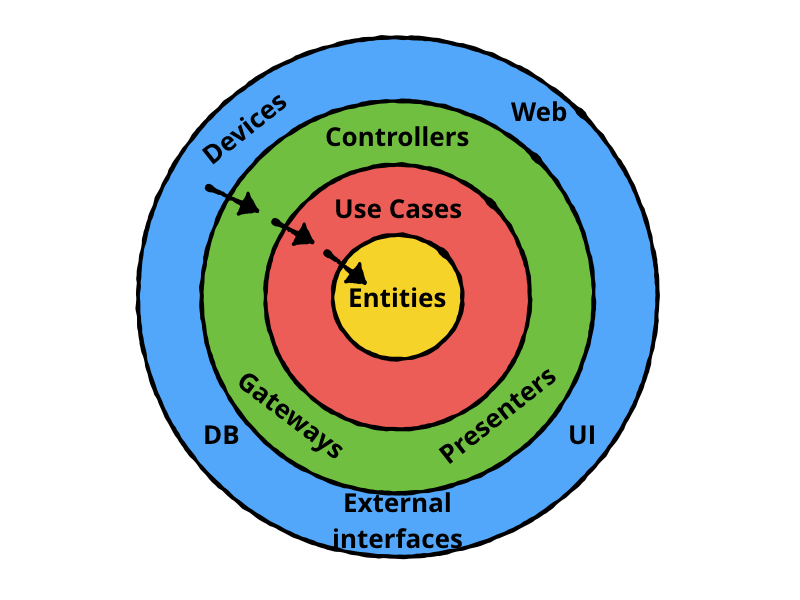
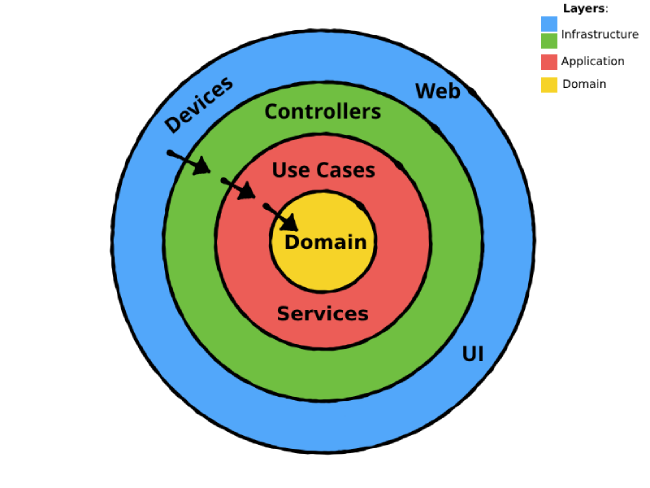
docs(report): Change graphs

diff --git a/docs/03_architecture_design/index.md b/docs/03_architecture_design/index.md
@@ -6,7 +6,7 @@ nav_order: 4
 # Design Architecture
 
 ## Architectural Overview
-The project adopts a **Hexagonal (Ports-and-Adapters) Architecture** **combined with Domain-Driven Design (DDD)**.  
+The project adopts a **Hexagonal Architecture** **combined with Domain-Driven Design (DDD)**.  
 This pairing isolates the pure *domain* model at the centre of the hexagon while structuring the codebase 
 around well-defined bounded contexts and ubiquitous language, ensuring:
 
@@ -32,7 +32,7 @@ from an outer layer, satisfying the Dependency Inversion Principle.
 
 ## Static View (Hexagon)
 
-![plot](./DDD-scalata.png)
+![plot](./DDD_hexagonal.svg)
 
 ## Dynamic View – Typical Turn Sequence
 
